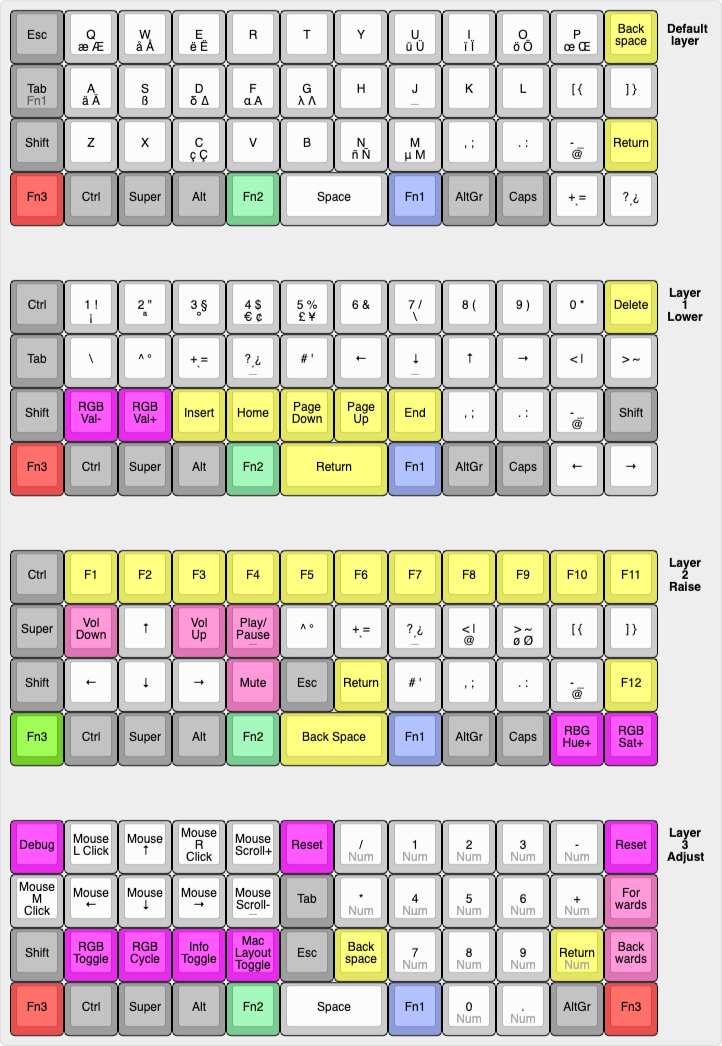
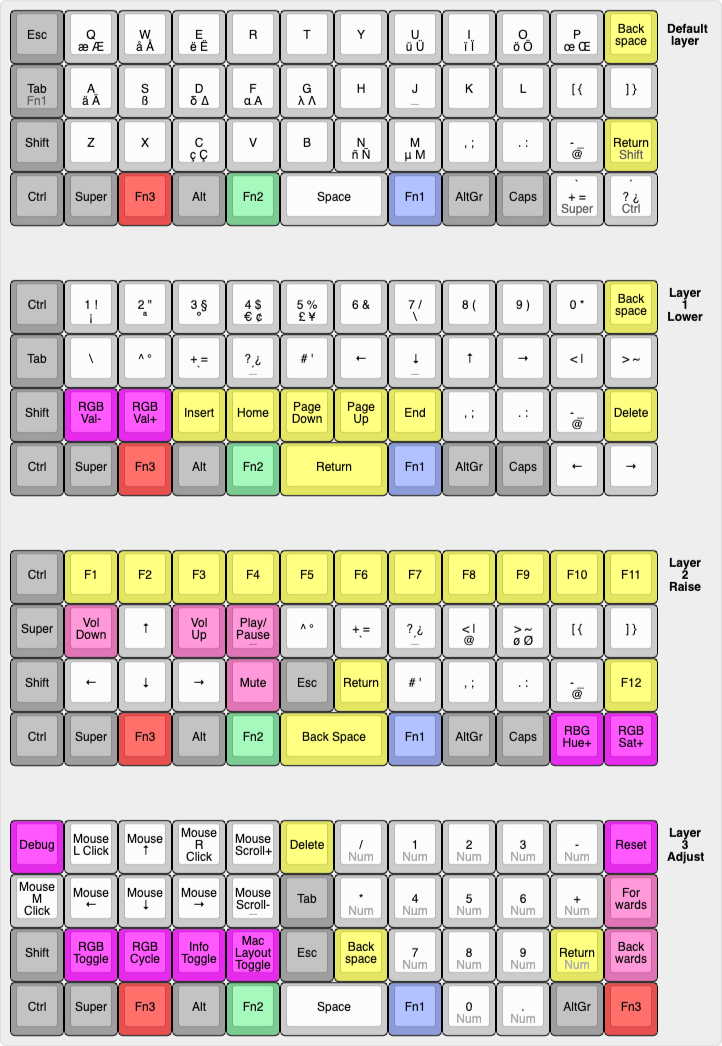
updated code comments depicting layouts and swapped fn, ctrl and super in linux mode, as well as replacing delete with backspace in lower layer and some other minor changes to the layout

diff --git a/keymap.c b/keymap.c
@@ -79,30 +79,30 @@ const uint16_t PROGMEM keymaps[][MATRIX_ROWS][MATRIX_COLS] = {
 	 * |------+------+------+------+------+------|------+------+------+------+------+------|
 	 * | Shift|   Z  |   X  |   C  |   V  |   B  |   N  |   M  |   ,  |   .  |   /  |Enter |
 	 * |------+------+------+------+------+------+------+------+------+------+------+------|
-	 * |Adjust| Ctrl | Super|  Alt | Raise|    Space    | Lower|AltGr | Caps | Left |Right |
+	 * |Adjust| Ctrl | Super|  Alt | Raise|    Space    | Lower|AltGr | Caps |   -  |   =  |
 	 * `-----------------------------------------------------------------------------------'
    */
 	[_L_BASE] = LAYOUT_planck_mit(
-		_CTRL_ESC,    KC_Q,    KC_W,    KC_E,    KC_R,    KC_T, KC_Y, KC_U,    KC_I,    KC_O,        KC_P,      KC_BSPC,
-		_L_TAB_LOWER, KC_A,    KC_S,    KC_D,    KC_F,    KC_G, KC_H, KC_J,    KC_K,    KC_L,        KC_LBRC,   KC_RBRC,
-		KC_LSFT,      KC_Z,    KC_X,    KC_C,    KC_V,    KC_B, KC_N, KC_M,    KC_COMM, KC_DOT,      KC_SLSH,   KC_ENT,
-		L_ADJUST,     KC_LCTL, KC_LGUI, KC_LALT, L_RAISE, KC_SPC,     L_LOWER, KC_RALT, _L_CAPSLOCK, _GUI_MINS, _CTL_EQL),
+		_CTRL_ESC,    KC_Q,    KC_W,     KC_E,    KC_R,    KC_T, KC_Y, KC_U,    KC_I,    KC_O,        KC_P,      KC_BSPC,
+		_L_TAB_LOWER, KC_A,    KC_S,     KC_D,    KC_F,    KC_G, KC_H, KC_J,    KC_K,    KC_L,        KC_LBRC,   KC_RBRC,
+		KC_LSFT,      KC_Z,    KC_X,     KC_C,    KC_V,    KC_B, KC_N, KC_M,    KC_COMM, KC_DOT,      KC_SLSH,   _RSFT_RET,
+		KC_LCTL,      KC_LGUI, L_ADJUST, KC_LALT, L_RAISE, KC_SPC,     L_LOWER, KC_RALT, _L_CAPSLOCK, _GUI_MINS, _CTL_EQL),
 
 	/* Linux Lower
 	 * ,-----------------------------------------------------------------------------------.
-	 * | Ctrl |   1  |   2  |   3  |   4  |   5  |   6  |   7  |   8  |   9  |   0  | Del  |
+	 * | Ctrl |   1  |   2  |   3  |   4  |   5  |   6  |   7  |   8  |   9  |   0  | Bksp |
 	 * |------+------+------+------+------+-------------+------+------+------+------+------|
 	 * | Tab  |  \*  |   ^  |   -  |   =  |   \  | Left | Down |  Up  |Right |   ;  |  '   |
 	 * |------+------+------+------+------+------|------+------+------+------+------+------|
-	 * | Shift| Val- | Val+ |  Ins | Home | P Up |P Down| End  |   ,  |   .  |   /  |Shift |
+	 * | Shift| Val- | Val+ |  Ins | Home | P Up |P Down| End  |   ,  |   .  |   /  |Delete|
 	 * |------+------+------+------+------+------+------+------+------+------+------+------|
-	 * |Adjust| Ctrl | Super|  Alt | Raise|    Enter    |Lower |AltGr | Caps | Hue+ | Sat+ |
+	 * |Adjust| Ctrl | Super|  Alt | Raise|    Enter    |Lower |AltGr | Caps | Left | Right|
 	 * `-----------------------------------------------------------------------------------'
    */
 	[_L_LOWER] = LAYOUT_planck_mit(
-		KC_RCTL, KC_1,    	   KC_2,    KC_3,    KC_4,    KC_5,    KC_6,    KC_7,    KC_8,    KC_9,     KC_0,    KC_DEL,
+		KC_RCTL, KC_1,    	   KC_2,    KC_3,    KC_4,    KC_5,    KC_6,    KC_7,    KC_8,    KC_9,     KC_0,    KC_KSPC,
 		KC_TRNS, _L_BACKSLASH, KC_GRV,  KC_MINS, KC_EQL,  KC_BSLS, KC_LEFT, KC_DOWN, KC_UP,   KC_RGHT,  KC_SCLN, KC_QUOT,
-		KC_TRNS, RGB_VAD,			 RGB_VAI, KC_INS,  KC_HOME, KC_PGDN, KC_PGUP, KC_END,  KC_COMM, KC_DOT,   KC_SLSH, KC_RSFT,
+		KC_TRNS, RGB_VAD,			 RGB_VAI, KC_INS,  KC_HOME, KC_PGDN, KC_PGUP, KC_END,  KC_COMM, KC_DOT,   KC_SLSH, KC_DEL,
 		KC_TRNS, KC_TRNS,			 KC_TRNS, KC_TRNS, KC_TRNS, KC_ENT,           KC_TRNS, KC_TRNS, KC_TRNS,  KC_LEFT, KC_RIGHT),
 
 	/* Linux Raise
@@ -113,24 +113,24 @@ const uint16_t PROGMEM keymaps[][MATRIX_ROWS][MATRIX_COLS] = {
 	 * |------+------+------+------+------+------|------+------+------+------+------+------|
 	 * | Shift| Left | Down | Right| Mute |  Esc |Enter | End  |   ,  |   .  |   /  | F12  |
 	 * |------+------+------+------+------+------+------+------+------+------+------+------|
-	 * |Adjust| Ctrl | Super|  Alt | Raise|  Backspace  |Lower |AltGr | Caps | Bckw | Forw |
+	 * |Adjust| Ctrl | Super|  Alt | Raise|  Backspace  |Lower |AltGr | Caps | Hue+ | Sat+ |
 	 * `-----------------------------------------------------------------------------------'
    */
 	[_L_RAISE] = LAYOUT_planck_mit(
-		KC_TRNS, KC_F1,   KC_F2,   KC_F3,   KC_F4,   KC_F5,   KC_F6,   KC_F7,   KC_F8,   KC_F9,    KC_F10,     KC_F11,
-		KC_LGUI, KC_VOLD, KC_UP,   KC_VOLU, KC_MPLY, KC_GRV,  KC_MINS, KC_EQL,  KC_SCLN, KC_QUOT,  KC_LBRC,    KC_RBRC,
-		KC_TRNS, KC_LEFT, KC_DOWN, KC_RGHT, KC_MUTE, KC_ESC,  KC_ENT,  KC_BSLS, KC_COMM, KC_DOT,   KC_SLSH,    KC_F12,
+		KC_TRNS, KC_F1,   KC_F2,   KC_F3,   KC_F4,   KC_F5,   KC_F6,   KC_F7,   KC_F8,   KC_F9,    KC_F10,  KC_F11,
+		KC_LGUI, KC_VOLD, KC_UP,   KC_VOLU, KC_MPLY, KC_GRV,  KC_MINS, KC_EQL,  KC_SCLN, KC_QUOT,  KC_LBRC, KC_RBRC,
+		KC_TRNS, KC_LEFT, KC_DOWN, KC_RGHT, KC_MUTE, KC_ESC,  KC_ENT,  KC_BSLS, KC_COMM, KC_DOT,   KC_SLSH, KC_F12,
 		KC_TRNS, KC_TRNS, KC_TRNS, KC_TRNS, KC_TRNS, KC_BSPC,          KC_TRNS, KC_TRNS, KC_TRNS,  RGB_HUI, RGB_SAI),
 
 	/* Linux Adjust
 	 * ,-----------------------------------------------------------------------------------.
-	 * | Debug| Btn1 | M Up | Btn2 |Scrll+| InfT |   /  |   1  |   2  |   3  |   -  | Lck1 |
+	 * | Debug| Btn1 | M Up | Btn2 |Scrll+|Delete|   /  |   1  |   2  |   3  |   -  | Reset|
 	 * |------+------+------+------+------+-------------+------+------+------+------+------|
-	 * | Btn3 |M Left|M Down|MRight|Scrll-|  Tab |   *  |   4  |   5  |   6  |   +  | Lck2 |
+	 * | Btn3 |M Left|M Down|MRight|Scrll-|  Tab |   *  |   4  |   5  |   6  |   +  | Forw |
 	 * |------+------+------+------+------+------|------+------+------+------+------+------|
-	 * | Shift| RGB T| Cycle| Reset|  Mac |  Esc | Bksp |   7  |   8  |   9  |Enter | Lck3 |
+	 * | Shift| RGB T| Cycle| InfT |  Mac |  Esc | Bksp |   7  |   8  |   9  |Enter | Bckw |
 	 * |------+------+------+------+------+------+------+------+------+------+------+------|
-	 * |Adjust| Ctrl | Super|  Alt | Raise|    Space    |Lower |   0  |   .  |AltGr | Lck0 |
+	 * |Adjust| Ctrl | Super|  Alt | Raise|    Space    |Lower |   0  |   .  |AltGr | Adjst|
 	 * `-----------------------------------------------------------------------------------'
    */
 	[_L_ADJUST] = LAYOUT_planck_mit(
@@ -147,30 +147,30 @@ const uint16_t PROGMEM keymaps[][MATRIX_ROWS][MATRIX_COLS] = {
 	 * |------+------+------+------+------+------|------+------+------+------+------+------|
 	 * | Shift|   Z  |   X  |   C  |   V  |   B  |   N  |   M  |   ,  |   .  |   /  |Enter |
 	 * |------+------+------+------+------+------+------+------+------+------+------+------|
-	 * |  Fn  | Ctrl |  Alt | Super| Raise|    Space    | Lower|AltGr | Caps | Left |Right |
+	 * |  Fn  | Ctrl |  Alt | Super| Raise|    Space    | Lower|AltGr | Caps |   -  |   =  |
 	 * `-----------------------------------------------------------------------------------'
    */
 	[_M_BASE] = LAYOUT_planck_mit(
 		_CTRL_ESC,    KC_Q,    KC_W,    KC_E,    KC_R,    KC_T, KC_Y, KC_U,    KC_I,    KC_O,        KC_P,      KC_BSPC,
 		_M_TAB_LOWER, KC_A,    KC_S,    KC_D,    KC_F,    KC_G, KC_H, KC_J,    KC_K,    KC_L,        KC_LBRC,   KC_RBRC,
-		KC_LSFT,      KC_Z,    KC_X,    KC_C,    KC_V,    KC_B, KC_N, KC_M,    KC_COMM, KC_DOT,      KC_SLSH,   KC_ENT,
+		KC_LSFT,      KC_Z,    KC_X,    KC_C,    KC_V,    KC_B, KC_N, KC_M,    KC_COMM, KC_DOT,      KC_SLSH,   _RSFT_RET,
 		_M_FN,        KC_LCTL, KC_LALT, KC_LGUI, M_RAISE, KC_SPC,     M_LOWER, KC_RALT, _M_CAPSLOCK, _GUI_MINS, _CTL_EQL),
 
 	/* MacOS Lower
 	 * ,-----------------------------------------------------------------------------------.
-	 * | Ctrl |   1  |   2  |   3  |   4  |   5  |   6  |   7  |   8  |   9  |   0  | Del  |
+	 * | Ctrl |   1  |   2  |   3  |   4  |   5  |   6  |   7  |   8  |   9  |   0  | Bksp |
 	 * |------+------+------+------+------+-------------+------+------+------+------+------|
 	 * | Tab  |  \*  |   ^  |   -  |   =  |   \  | Left | Down |  Up  |Right |   ;  |  '   |
 	 * |------+------+------+------+------+------|------+------+------+------+------+------|
-	 * | Shift| Val- | Val+ |  Ins | Home | P Up |P Down| End  |   ,  |   .  |   /  |Enter |
+	 * | Shift| Val- | Val+ |  Ins | Home | P Up |P Down| End  |   ,  |   .  |   /  |Delete|
 	 * |------+------+------+------+------+------+------+------+------+------+------+------|
-	 * |  Fn  | Ctrl |  Alt | Super| Raise|    Enter    |Lower |AltGr | Caps | Hue+ | Sat+ |
+	 * |  Fn  | Ctrl |  Alt | Super| Raise|    Enter    |Lower |AltGr | Caps | Left | Right|
 	 * `-----------------------------------------------------------------------------------'
    */
 	[_M_LOWER] = LAYOUT_planck_mit(
-		KC_RCTL, 			KC_1,   		  KC_2,    KC_3,    KC_4,    KC_5,    KC_6,    KC_7,    KC_8,    KC_9,     KC_0,    KC_DEL,
+		KC_RCTL, 			KC_1,   		  KC_2,    KC_3,    KC_4,    KC_5,    KC_6,    KC_7,    KC_8,    KC_9,     KC_0,    KC_KSPC,
 		_M_TAB_LOWER, _M_BACKSLASH,	KC_GRV,  KC_MINS, KC_EQL,  KC_BSLS, KC_LEFT, KC_DOWN, KC_UP,   KC_RGHT,  KC_SCLN, KC_QUOT,
-		KC_TRNS, 			RGB_VAD,			RGB_VAI, KC_INS,  KC_HOME, KC_PGDN, KC_PGUP, KC_END,  KC_COMM, KC_DOT,   KC_SLSH, KC_RSFT,
+		KC_TRNS, 			RGB_VAD,			RGB_VAI, KC_INS,  KC_HOME, KC_PGDN, KC_PGUP, KC_END,  KC_COMM, KC_DOT,   KC_SLSH, KC_DEL,
 		KC_TRNS, 			KC_TRNS,		  KC_TRNS, KC_TRNS, KC_TRNS, KC_ENT,           KC_TRNS, KC_TRNS, KC_TRNS,  KC_LEFT, KC_RIGHT),
 
 	/* MacOS Raise
@@ -181,7 +181,7 @@ const uint16_t PROGMEM keymaps[][MATRIX_ROWS][MATRIX_COLS] = {
 	 * |------+------+------+------+------+------|------+------+------+------+------+------|
 	 * | Shift| Left | Down | Right| Mute |  Esc |Enter | End  |   ,  |   .  |   /  | F12  |
 	 * |------+------+------+------+------+------+------+------+------+------+------+------|
-	 * |  Fn  | Ctrl |  Alt | Super| Raise|  Backspace  |Lower |AltGr | Caps | Bckw | Forw |
+	 * |  Fn  | Ctrl |  Alt | Super| Raise|  Backspace  |Lower |AltGr | Caps | Hue+ | Sat+ |
 	 * `-----------------------------------------------------------------------------------'
    */
 	[_M_RAISE] = LAYOUT_planck_mit(
@@ -192,17 +192,17 @@ const uint16_t PROGMEM keymaps[][MATRIX_ROWS][MATRIX_COLS] = {
 
   /* MacOS Adjust
 	 * ,-----------------------------------------------------------------------------------.
-	 * | Debug| Btn1 | M Up | Btn2 |Scrll+| InfT |   /  |   1  |   2  |   3  |   -  | Lck1 |
+	 * | Debug| Btn1 | M Up | Btn2 |Scrll+|Delete|   /  |   1  |   2  |   3  |   -  | Reset|
 	 * |------+------+------+------+------+-------------+------+------+------+------+------|
-	 * | Btn3 |M Left|M Down|MRight|Scrll-|  Tab |   *  |   4  |   5  |   6  |   +  | Lck2 |
+	 * | Btn3 |M Left|M Down|MRight|Scrll-|  Tab |   *  |   4  |   5  |   6  |   +  | Forw |
 	 * |------+------+------+------+------+------|------+------+------+------+------+------|
-	 * | Shift| RGB T| Cycle| Reset| Linux|  Esc | Bksp |   7  |   8  |   9  |Enter | Lck3 |
+	 * | Shift| RGB T| Cycle| InfT | Linux|  Esc | Bksp |   7  |   8  |   9  |Enter | Bckw |
 	 * |------+------+------+------+------+------+------+------+------+------+------+------|
-	 * |  Fn  | Ctrl |  Alt | Super| Raise|    Space    |Lower |   0  |   .  |AltGr | Lck0 |
+	 * |  Fn  | Ctrl |  Alt | Super| Raise|    Space    |Lower |   0  |   .  |AltGr | Adjst|
 	 * `-----------------------------------------------------------------------------------'
    */
 	[_M_ADJUST] = LAYOUT_planck_mit(
-		DEBUG,   KC_BTN1, KC_MS_U,          KC_BTN2, KC_WH_U, RESET,  KC_PSLS,  KC_P1,   KC_P2,   KC_P3,    KC_PMNS, RESET,
+		DEBUG,   KC_BTN1, KC_MS_U,          KC_BTN2, KC_WH_U, KC_DEL, KC_PSLS,  KC_P1,   KC_P2,   KC_P3,    KC_PMNS, RESET,
 		KC_BTN3, KC_MS_L, KC_MS_D,          KC_MS_R, KC_WH_D, KC_TAB, KC_PAST,  KC_P4,   KC_P5,   KC_P6,    KC_PPLS, _FORWARDS,
 		KC_TRNS, RGB_TOG, RGB_MODE_FORWARD, INF_TGL, M_TO_L,  KC_ESC, KC_BSPC,  KC_P7,   KC_P8,   KC_P9,    KC_PENT, _BACKWARDS,
 		KC_TRNS, KC_TRNS, KC_TRNS,          KC_TRNS, KC_TRNS, KC_SPC,           KC_TRNS, KC_P0,   KC_PDOT,  KC_RALT, M_ADJUST)

diff --git a/config.h b/config.h
@@ -68,6 +68,9 @@
 /* space normally, but (left) control when held down */ // TODO: currently not being used
 #define _CTRL_SPC MT(MOD_LCTL, KC_SPC)
 
+/* enter normally, but (right) shift when held down */
+#define _RSFT_RET MT(MOD_RSFT, KC_ENT)
+
 /* left arrow normally, but (right) gui when held down */
 #define _GUI_MINS  MT(MOD_RGUI, KC_MINS)
 
